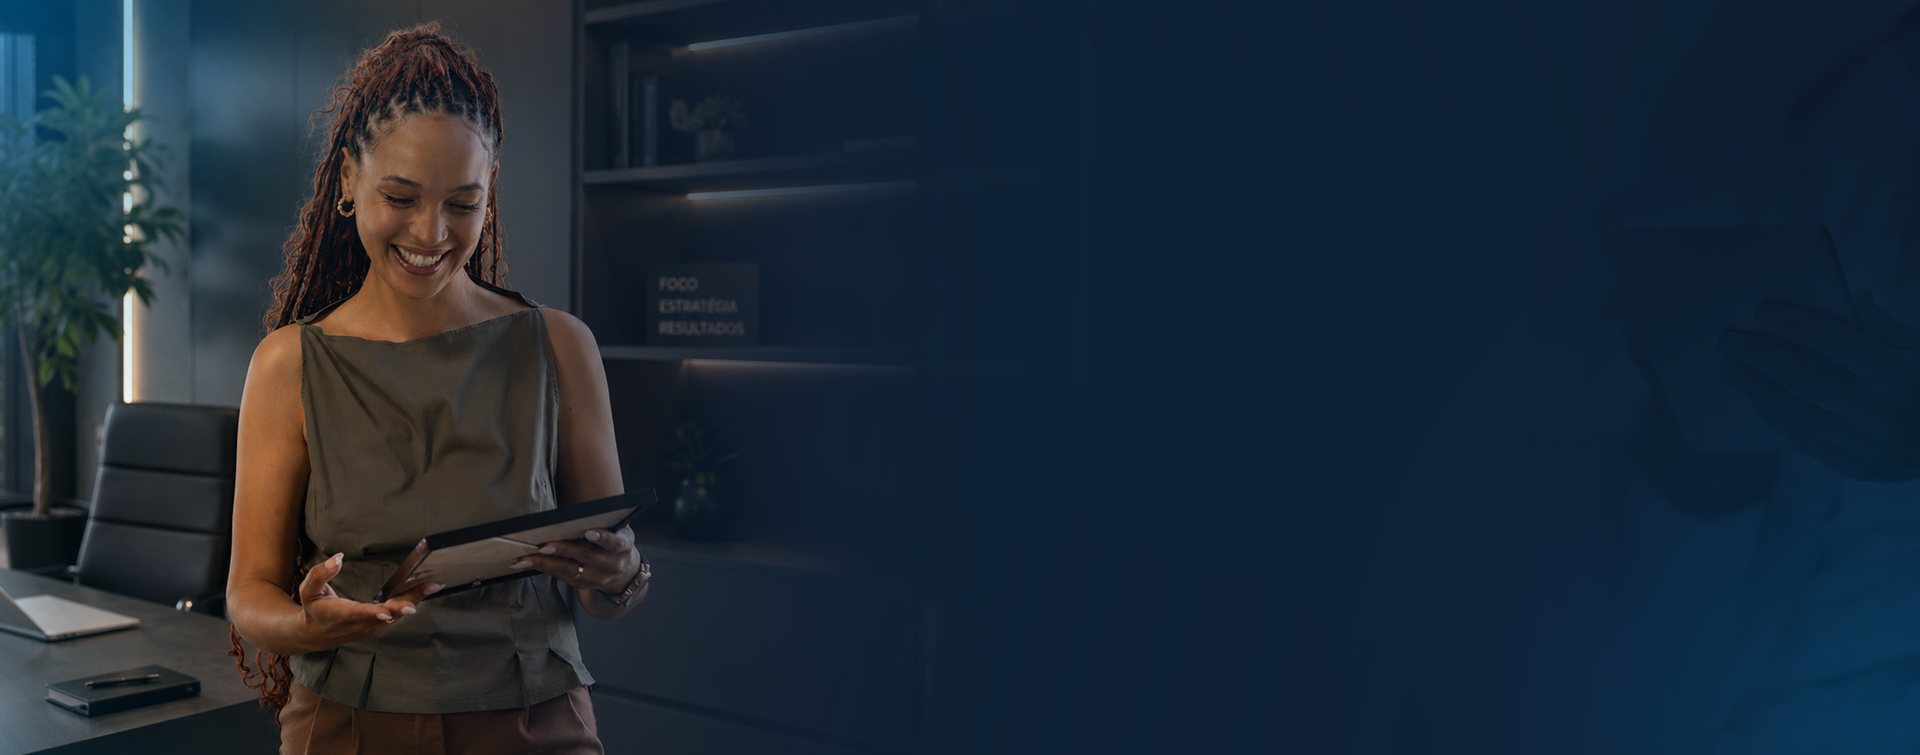
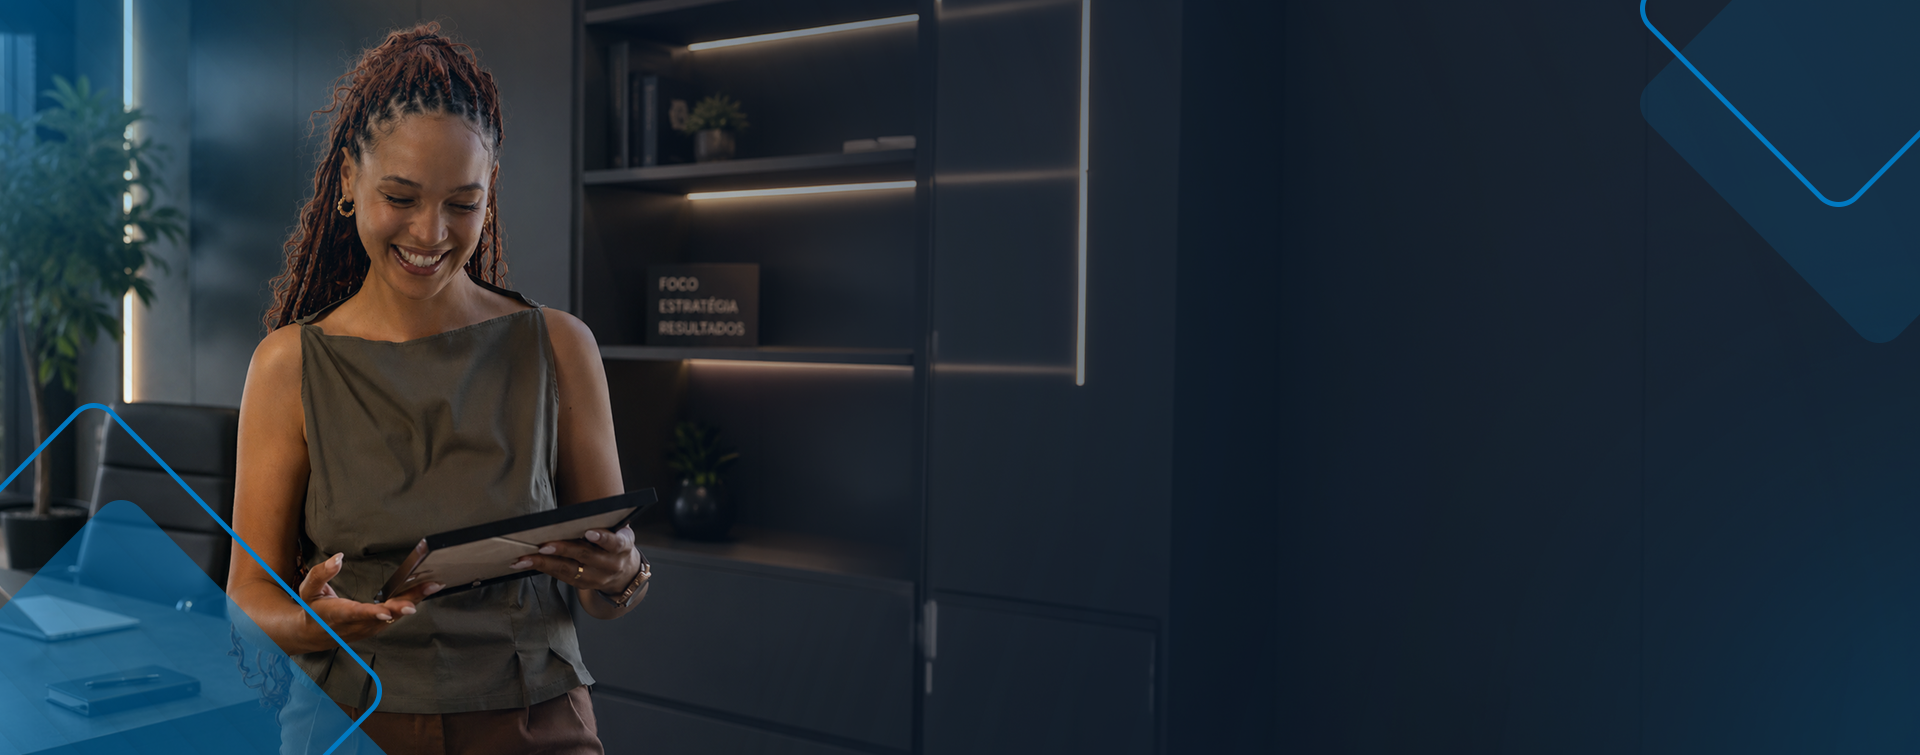
feat: Update image URLs in about and hero sections for consistency and improved asset management

diff --git a/funprespjud/moodle-config/style.css b/funprespjud/moodle-config/style.css
@@ -31,7 +31,6 @@
      8. Footer global
    ═══════════════════════════════════════════════════════════ */
 
-
 /* ═══════════════════════════════════════════════════════════
    1. BASE & TIPOGRAFIA
    ═══════════════════════════════════════════════════════════ */
@@ -97,7 +96,6 @@ footer a:hover,
   color: #fbba00 !important;
   text-decoration: none;
 }
-
 
 /* ═══════════════════════════════════════════════════════════
    2. HOME PÚBLICA — #page-site-index
@@ -276,7 +274,7 @@ img.funp-media-holder {
 }
 
 .funp-hero-bg {
-  background-image: url("https://ead.funprespjud.com.br/pluginfile.php/601/block_html/content/Banner-Hero.png");
+  background-image: url("https://ead.funprespjud.com.br/pluginfile.php/601/block_html/content/Banner-Hero%20%281%29.png");
   background-size: cover;
   background-position: center;
   background-repeat: no-repeat;
@@ -479,7 +477,7 @@ img.funp-media-holder {
       rgba(10, 26, 46, 0.88) 72%,
       rgba(10, 26, 46, 0.96) 100%
     ),
-    url("https://ead.funprespjud.com.br/pluginfile.php/602/block_html/content/Banner-Institucional.png")
+    url("https://ead.funprespjud.com.br/pluginfile.php/602/block_html/content/Banner-Institucional%20%281%29.png")
       15% top / cover no-repeat;
   color: #fff;
   padding: 64px 0;
@@ -527,7 +525,7 @@ img.funp-media-holder {
 .funp-known.funp-known-v13 p {
   font-size: 14.5px;
   line-height: 1.65;
-  color: rgba(255, 255, 255, 0.80);
+  color: rgba(255, 255, 255, 0.8);
   margin: 0 0 12px;
   max-width: 540px;
 }
@@ -572,7 +570,6 @@ img.funp-media-holder {
   background: #e8ac00;
   color: #2a1d00 !important;
 }
-
 
 /* ═══════════════════════════════════════════════════════════
    3. CURSOS DISPONÍVEIS — frontpage course list
@@ -756,7 +753,6 @@ img.funp-media-holder {
 #page-site-index .coursebox .summary .coursename a:hover {
   color: #0578be !important;
 }
-
 
 /* ═══════════════════════════════════════════════════════════
    4. MEUS CURSOS — body#page-my-index (/my/courses.php)
@@ -1129,7 +1125,6 @@ body#page-my-index
   .progress-text::after {
   background: #d8dde3 !important;
 }
-
 
 /* ═══════════════════════════════════════════════════════════
    5. LOGIN — body#page-login-index (split-screen v3 + v3.4)
@@ -1671,7 +1666,6 @@ html body#page-login-index .funp-login-form .login-signup .btn-secondary:hover {
   color: #fff !important;
 }
 
-
 /* ═══════════════════════════════════════════════════════════
    6. AUTO-INSCRIÇÃO — body#page-enrol-index (enrol_self)
    ───────────────────────────────────────────────────────────
@@ -1985,7 +1979,6 @@ body#page-enrol-index .enrol-instance + .enrol-instance {
     padding-right: 20px !important;
   }
 }
-
 
 /* ═══════════════════════════════════════════════════════════
    7. SIGNUP — body#page-login-signup (/login/signup.php)
@@ -2338,7 +2331,6 @@ body#page-login-signup .loginform-toggle .lambda-toggle {
     font-size: 24px !important;
   }
 }
-
 
 /* ═══════════════════════════════════════════════════════════
    8. FOOTER GLOBAL

diff --git a/funprespjud/moodle-config/html/about.html b/funprespjud/moodle-config/html/about.html
@@ -13,5 +13,5 @@
     </div>
   </div>
   <!-- Imagem hospedada no bloco (mesmo padrão da Banner-Hero). Substitua o ID abaixo pelo do bloco depois de fazer upload pelo file picker do Moodle. -->
-  <img style="display: none !important" src="https://ead.funprespjud.com.br/pluginfile.php/602/block_html/content/Banner-Institucional.png" alt="" width="1920" height="755">
+  <img style="display: none !important" src="https://ead.funprespjud.com.br/pluginfile.php/602/block_html/content/Banner-Institucional%20%281%29.png" alt="" width="1920" height="755">
 </section>

diff --git a/funprespjud/moodle-config/html/hero.html b/funprespjud/moodle-config/html/hero.html
@@ -21,7 +21,7 @@
   </div>
   <img
     style="display: none !important"
-    src="https://ead.funprespjud.com.br/pluginfile.php/601/block_html/content/Banner-Hero.png"
+    src="https://ead.funprespjud.com.br/pluginfile.php/601/block_html/content/Banner-Hero%20%281%29.png"
     alt=""
     width="1920"
     height="755"